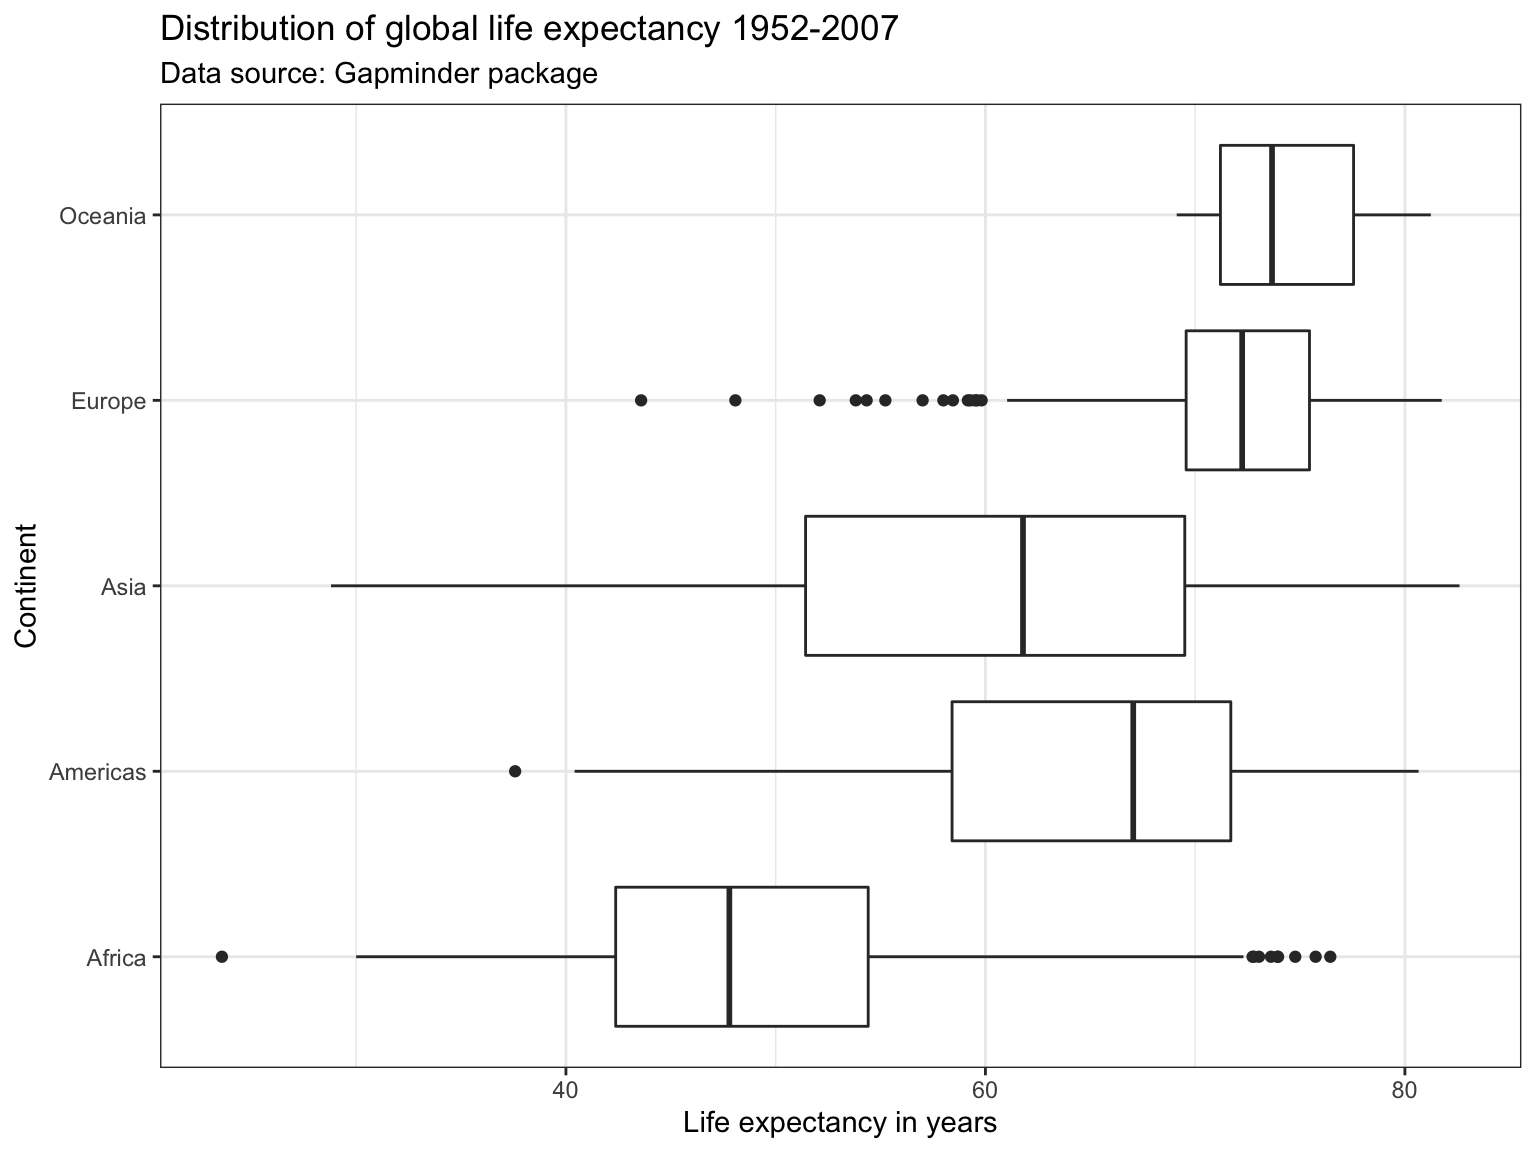
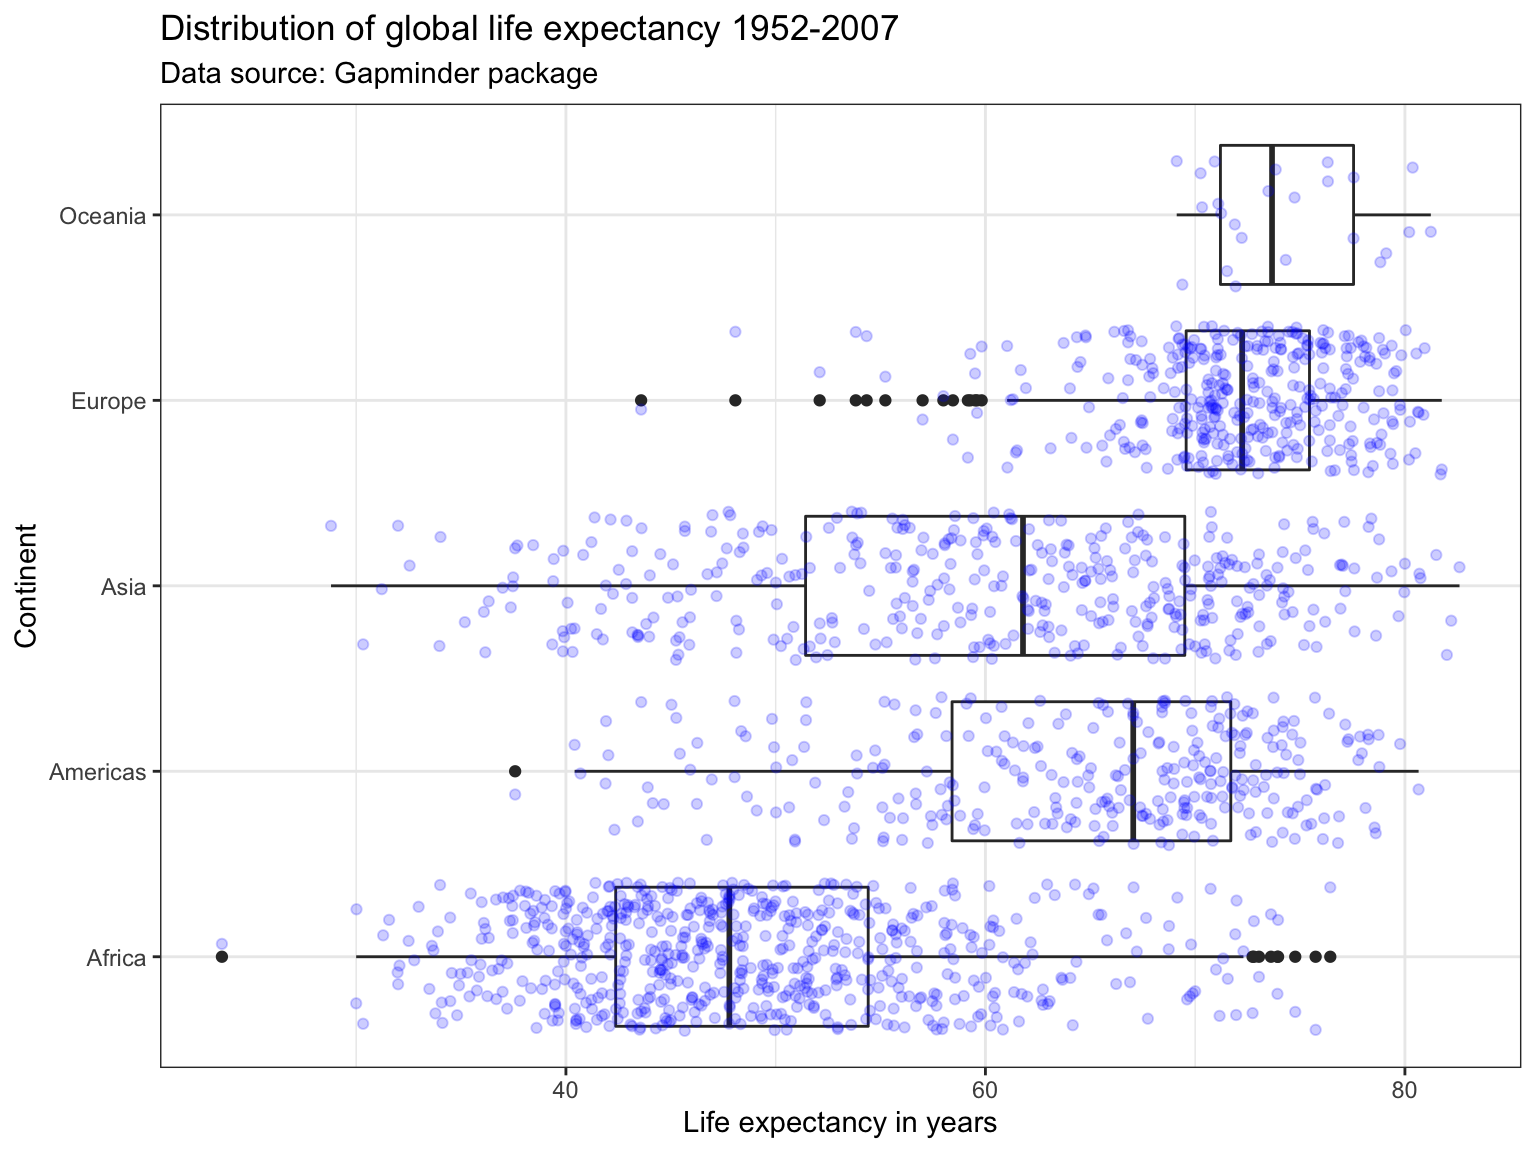
added jitter

diff --git a/session-7-visualization/7-visualization.html b/session-7-visualization/7-visualization.html
@@ -474,12 +474,13 @@ div.tocify {
 <span id="cb14-2"><a href="#cb14-2" aria-hidden="true" tabindex="-1"></a>       <span class="fu">aes</span>(<span class="at">x =</span> continent,</span>
 <span id="cb14-3"><a href="#cb14-3" aria-hidden="true" tabindex="-1"></a>           <span class="at">y =</span> lifeExp)) <span class="sc">+</span></span>
 <span id="cb14-4"><a href="#cb14-4" aria-hidden="true" tabindex="-1"></a>  <span class="fu">geom_boxplot</span>() <span class="sc">+</span></span>
-<span id="cb14-5"><a href="#cb14-5" aria-hidden="true" tabindex="-1"></a>  <span class="fu">labs</span>(<span class="at">title =</span> <span class="st">&quot;Distribution of global life expectancy 1952-2007&quot;</span>,</span>
-<span id="cb14-6"><a href="#cb14-6" aria-hidden="true" tabindex="-1"></a>       <span class="at">subtitle =</span> <span class="st">&quot;Data source: Gapminder package&quot;</span>,</span>
-<span id="cb14-7"><a href="#cb14-7" aria-hidden="true" tabindex="-1"></a>       <span class="at">x =</span> <span class="st">&quot;Continent&quot;</span>,</span>
-<span id="cb14-8"><a href="#cb14-8" aria-hidden="true" tabindex="-1"></a>       <span class="at">y =</span> <span class="st">&quot;Life expectancy in years&quot;</span>) <span class="sc">+</span></span>
-<span id="cb14-9"><a href="#cb14-9" aria-hidden="true" tabindex="-1"></a>  <span class="fu">theme_bw</span>() <span class="sc">+</span></span>
-<span id="cb14-10"><a href="#cb14-10" aria-hidden="true" tabindex="-1"></a>  <span class="fu">coord_flip</span>()</span></code></pre></div>
+<span id="cb14-5"><a href="#cb14-5" aria-hidden="true" tabindex="-1"></a>  <span class="fu">geom_jitter</span>(<span class="at">alpha=</span> <span class="fl">0.2</span>, <span class="at">color =</span> <span class="st">&quot;blue&quot;</span>)<span class="sc">+</span></span>
+<span id="cb14-6"><a href="#cb14-6" aria-hidden="true" tabindex="-1"></a>  <span class="fu">labs</span>(<span class="at">title =</span> <span class="st">&quot;Distribution of global life expectancy 1952-2007&quot;</span>,</span>
+<span id="cb14-7"><a href="#cb14-7" aria-hidden="true" tabindex="-1"></a>       <span class="at">subtitle =</span> <span class="st">&quot;Data source: Gapminder package&quot;</span>,</span>
+<span id="cb14-8"><a href="#cb14-8" aria-hidden="true" tabindex="-1"></a>       <span class="at">x =</span> <span class="st">&quot;Continent&quot;</span>,</span>
+<span id="cb14-9"><a href="#cb14-9" aria-hidden="true" tabindex="-1"></a>       <span class="at">y =</span> <span class="st">&quot;Life expectancy in years&quot;</span>) <span class="sc">+</span></span>
+<span id="cb14-10"><a href="#cb14-10" aria-hidden="true" tabindex="-1"></a>  <span class="fu">theme_bw</span>() <span class="sc">+</span></span>
+<span id="cb14-11"><a href="#cb14-11" aria-hidden="true" tabindex="-1"></a>  <span class="fu">coord_flip</span>()</span></code></pre></div>
 <p><img src="7-visualization_files/figure-html/unnamed-chunk-6-1.png" width="768" /></p>
 </div>
 <div id="violin-plots" class="section level2">
